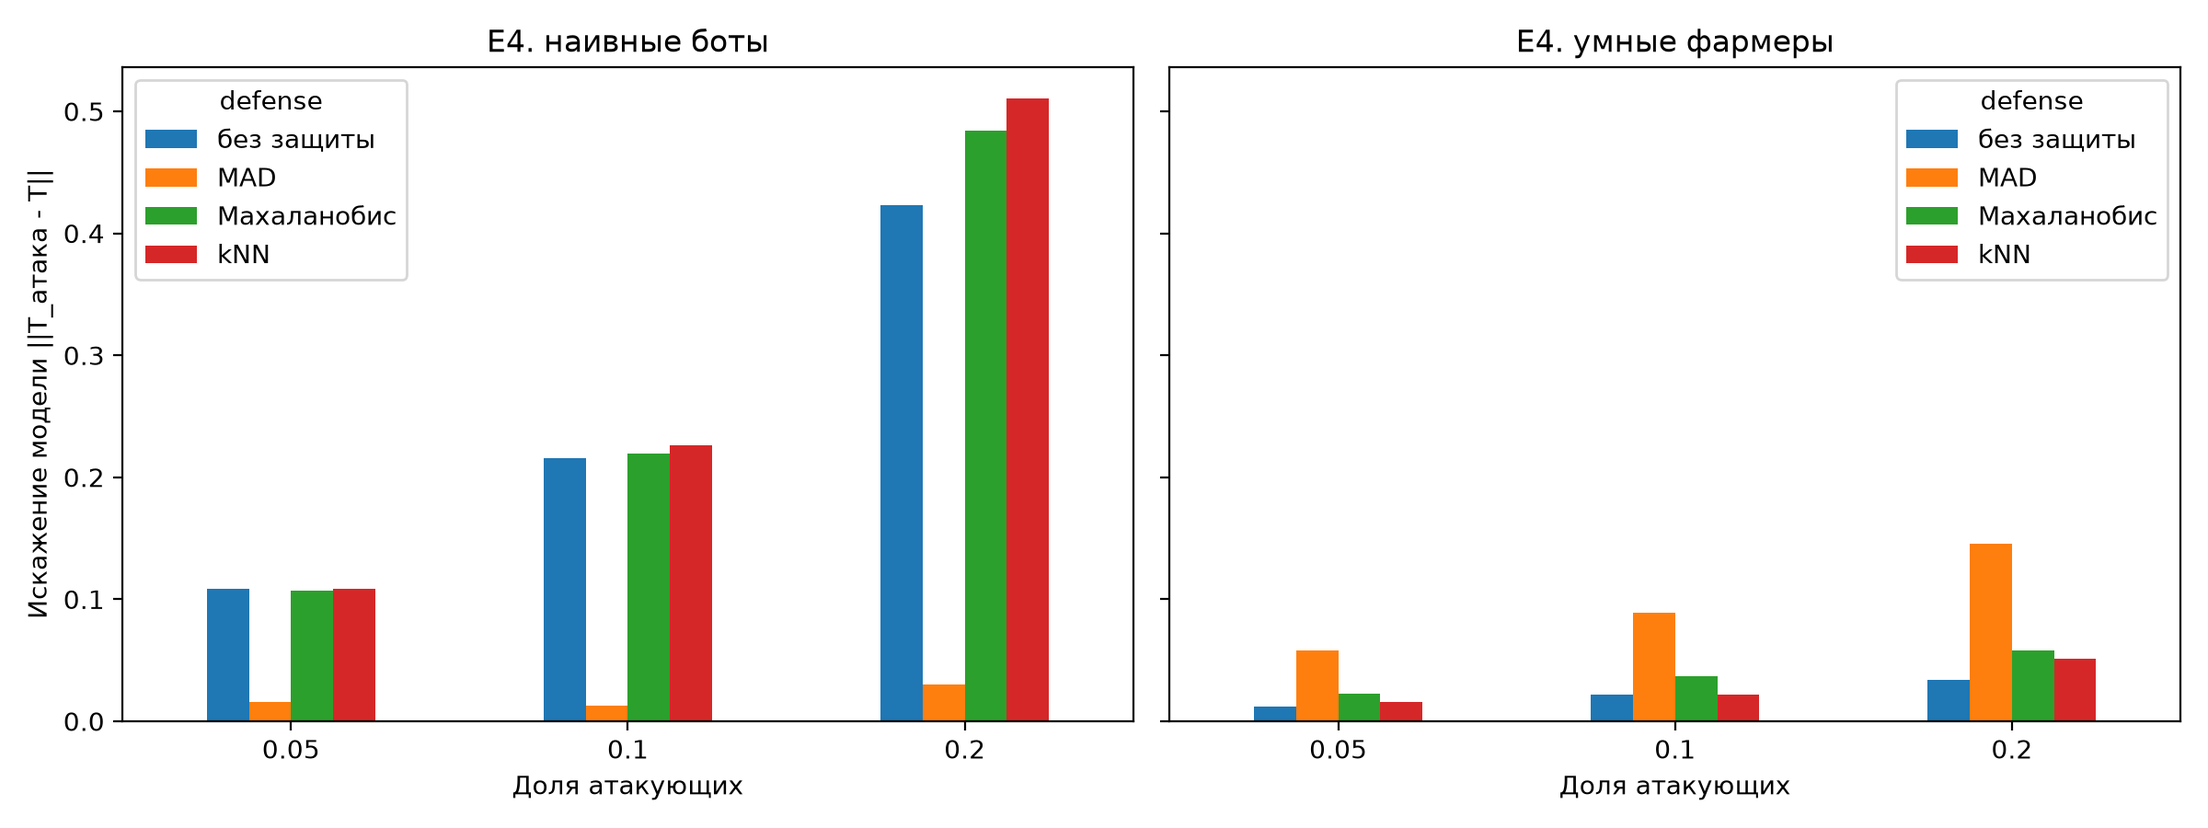
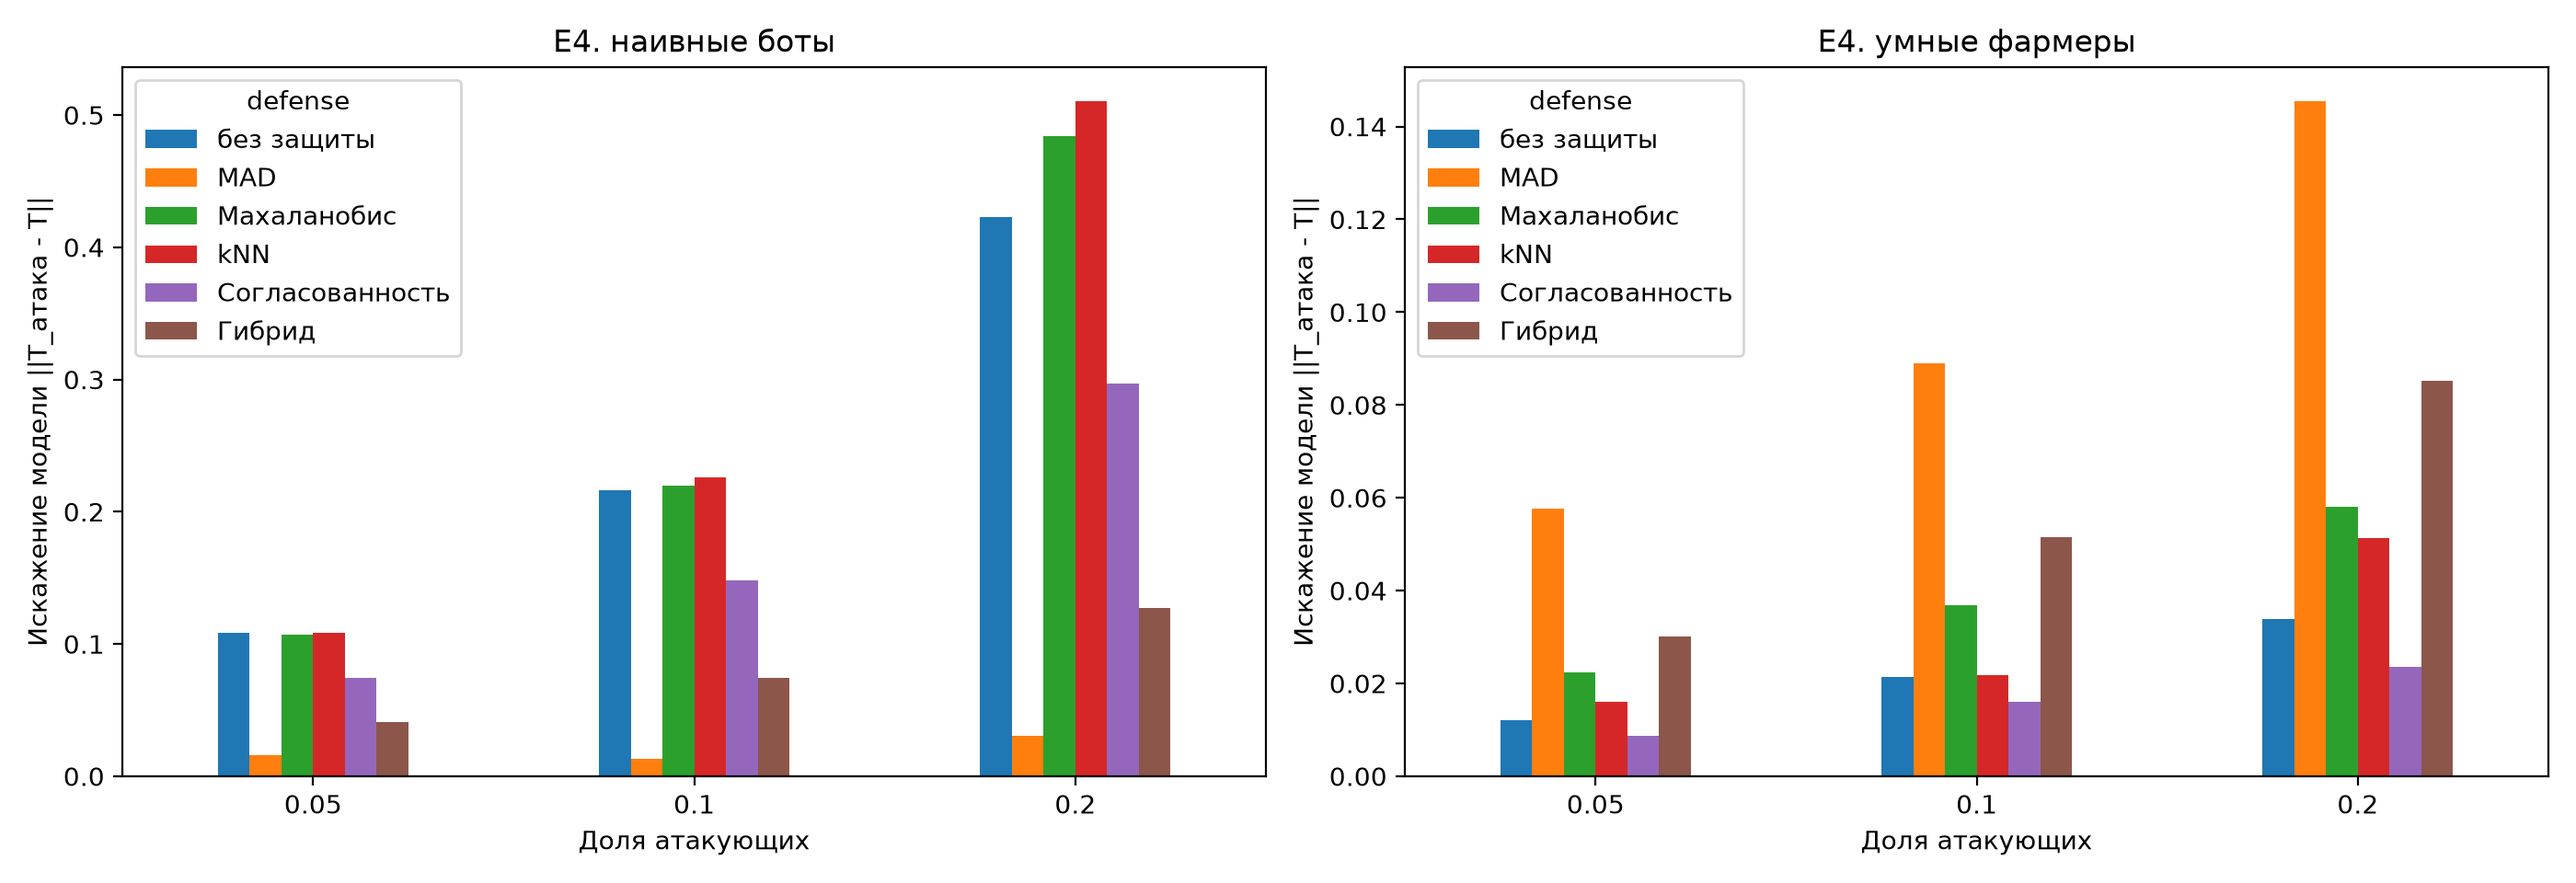
Защита на основе согласованности активности и оценок

Changed region(s): [[0.0, 0.0311, 1.0, 0.9644]]

diff --git a/oulad_experiments.py b/oulad_experiments.py
@@ -104,6 +104,29 @@ def estimate_model(L):
     return T, p0 / p0.sum()
 
 
+def load_scores(W, demo):
+    """
+    Средняя оценка студента за задания курса (studentAssessment + assessments),
+    выровненная по строкам W. NaN - у студента нет оценок (например, выбыл).
+    """
+    if demo:
+        rng = np.random.default_rng(1)
+        m = W.values.mean(1)
+        sc = np.clip(35 + 9 * np.log1p(m) + rng.normal(0, 12, len(m)), 0, 100)
+        sc[rng.random(len(m)) < 0.15] = np.nan
+        return sc
+    sa = pd.read_csv(os.path.join(DATA_DIR, "studentAssessment.csv"),
+                     usecols=["id_assessment", "id_student", "score"])
+    a = pd.read_csv(os.path.join(DATA_DIR, "assessments.csv"),
+                    usecols=["code_module", "code_presentation", "id_assessment"])
+    sa["score"] = pd.to_numeric(sa["score"], errors="coerce")
+    m = sa.merge(a, on="id_assessment")
+    g = m.groupby(["code_module", "code_presentation", "id_student"])["score"].mean()
+    sc = g.reindex(W.index).values.astype(float)
+    log(f"Оценки найдены для {np.isfinite(sc).mean():.0%} записей студент-курс")
+    return sc
+
+
 # =============================================================== MDP
 def build_mdp(T, effect=BASE_EFFECT, fatigue=BASE_FATIGUE):
     """
@@ -299,14 +322,14 @@ def top_k(score, share):
     return f
 
 
-def defend_mad(F, share):
+def defend_mad(F, share, ctx=None):
     """Робастная z-оценка (медиана/MAD), отклонения «вверх»."""
     med = np.median(F, 0)
     mad = np.median(np.abs(F - med), 0) * 1.4826 + 1e-9
     return top_k(np.clip((F - med) / mad, 0, None).sum(1), share)
 
 
-def defend_mahalanobis(F, share):
+def defend_mahalanobis(F, share, ctx=None):
     """Расстояние Махаланобиса до центра распределения."""
     mu = F.mean(0)
     C = np.cov(F.T) + 1e-6 * np.eye(F.shape[1])
@@ -314,7 +337,7 @@ def defend_mahalanobis(F, share):
     return top_k(np.einsum("ij,jk,ik->i", D, np.linalg.inv(C), D), share)
 
 
-def defend_knn(F, share, k=10, ref=1500, seed=0):
+def defend_knn(F, share, ctx=None, k=10, ref=1500, seed=0):
     """Расстояние до k-го ближайшего соседа из опорной выборки (аналог LOF)."""
     rng = np.random.default_rng(seed)
     Z = (F - F.mean(0)) / (F.std(0) + 1e-9)
@@ -326,7 +349,43 @@ def defend_knn(F, share, k=10, ref=1500, seed=0):
     return top_k(score, share)
 
 
-DEFENSES = {"MAD": defend_mad, "Махаланобис": defend_mahalanobis, "kNN": defend_knn}
+def consistency_score(F, ctx):
+    """
+    Согласованность активности и успеваемости. По всем студентам с оценками
+    строится регрессия: оценка ~ log(средние клики). Подозрителен тот, чья
+    оценка заметно НИЖЕ ожидаемой при его активности: много кликов без знаний.
+    Студенты без оценок получают нейтральный балл 0.
+    """
+    S, act = ctx["scores"], F[:, 0]                 # F[:,0] = log(1+mean clicks)
+    ok = np.isfinite(S)
+    A = np.c_[np.ones(ok.sum()), act[ok]]
+    coef, *_ = np.linalg.lstsq(A, S[ok], rcond=None)
+    resid = np.zeros(len(S))
+    resid[ok] = S[ok] - A @ coef
+    mad = np.median(np.abs(resid[ok] - np.median(resid[ok]))) * 1.4826 + 1e-9
+    z = np.clip(-resid / mad, 0, None)              # только «ниже ожидаемого»
+    # учитываем, насколько активность выше типичной (фармеры активны)
+    za = np.clip((act - np.median(act)) / (np.median(np.abs(act - np.median(act))) * 1.4826 + 1e-9), 0, None)
+    return z * (1 + za)
+
+
+def defend_consistency(F, share, ctx):
+    return top_k(consistency_score(F, ctx), share)
+
+
+def defend_hybrid(F, share, ctx):
+    """Гибрид: MAD-аномальность поведения + несогласованность с оценками."""
+    med = np.median(F, 0)
+    mad = np.median(np.abs(F - med), 0) * 1.4826 + 1e-9
+    s1 = np.clip((F - med) / mad, 0, None).sum(1)
+    s2 = consistency_score(F, ctx)
+    r1 = s1.argsort().argsort() / len(s1)           # ранги, чтобы шкалы были сопоставимы
+    r2 = s2.argsort().argsort() / len(s2)
+    return top_k(np.maximum(r1, r2), share)
+
+
+DEFENSES = {"MAD": defend_mad, "Махаланобис": defend_mahalanobis, "kNN": defend_knn,
+            "Согласованность": defend_consistency, "Гибрид": defend_hybrid}
 ATTACKS = {"наивные боты": naive_bots, "умные фармеры": smart_farmers}
 
 
@@ -352,6 +411,8 @@ def main():
 
     W = load_weekly(args.demo)
     X = W.values
+    SCORES = load_scores(W, args.demo)
+    valid_scores = SCORES[np.isfinite(SCORES)]
     L = to_levels(X)
     n_students = len(L)
 
@@ -488,6 +549,9 @@ def main():
                 n_att = int(len(X) * sh)
                 Xp = np.vstack([X, att(X, n_att, rng)])
                 lab = np.r_[np.zeros(len(X), bool), np.ones(n_att, bool)]
+                # фармер набирает активность, но не знания: его оценка - как у
+                # случайного студента курса, независимо от числа кликов
+                Sp = np.r_[SCORES, rng.choice(valid_scores, size=n_att)]
                 Tp, p0p = estimate_model(to_levels(Xp))
                 dist0 = np.linalg.norm(Tp - T_full)
                 # завышение прогноза вовлечённости: модель на отравленных данных
@@ -498,7 +562,7 @@ def main():
                               (v_pois / v_true - 1) * 100, np.nan, np.nan))
                 F = features(Xp)
                 for dn, dfun in DEFENSES.items():
-                    fl = dfun(F, sh)
+                    fl = dfun(F, sh, {"scores": Sp})
                     prec = (fl & lab).sum() / max(fl.sum(), 1)
                     rec = (fl & lab).sum() / lab.sum()
                     Tc, p0c = estimate_model(to_levels(Xp[~fl]))
@@ -516,6 +580,14 @@ def main():
     say("  distortion - искажение матрицы переходов ||T_атака - T||,")
     say("  forecast_bias_% - завышение прогноза вовлечённости моделью")
     say(agg4.round(3).to_string())
+    for att_name in ATTACKS:
+        sub = agg4.xs(att_name, level="attack")
+        for sh in shares:
+            base = sub.loc[(sh, "без защиты"), "distortion"]
+            best = sub.loc[sh].drop("без защиты")["distortion"].idxmin()
+            bv = sub.loc[(sh, best), "distortion"]
+            say(f"  {att_name}, {int(sh*100)}%: лучшая защита - {best} "
+                f"(искажение {base:.3f} -> {bv:.3f}, в {base / max(bv, 1e-9):.1f} раза)")
 
     # ------------------------------------------------------------- E5
     log("E5: проверка по курсам...")
@@ -581,7 +653,7 @@ def main():
     ax[1].legend()
     plt.tight_layout(); plt.savefig(os.path.join(OUT_DIR, "fig3_reliability.png"), dpi=200); plt.close()
 
-    fig, ax = plt.subplots(1, 2, figsize=(12, 4.5), sharey=True)
+    fig, ax = plt.subplots(1, 2, figsize=(14, 4.8))
     for i, att_name in enumerate(ATTACKS):
         sub = agg4.xs(att_name, level="attack")["distortion"].unstack()
         sub = sub[["без защиты"] + list(DEFENSES)]
